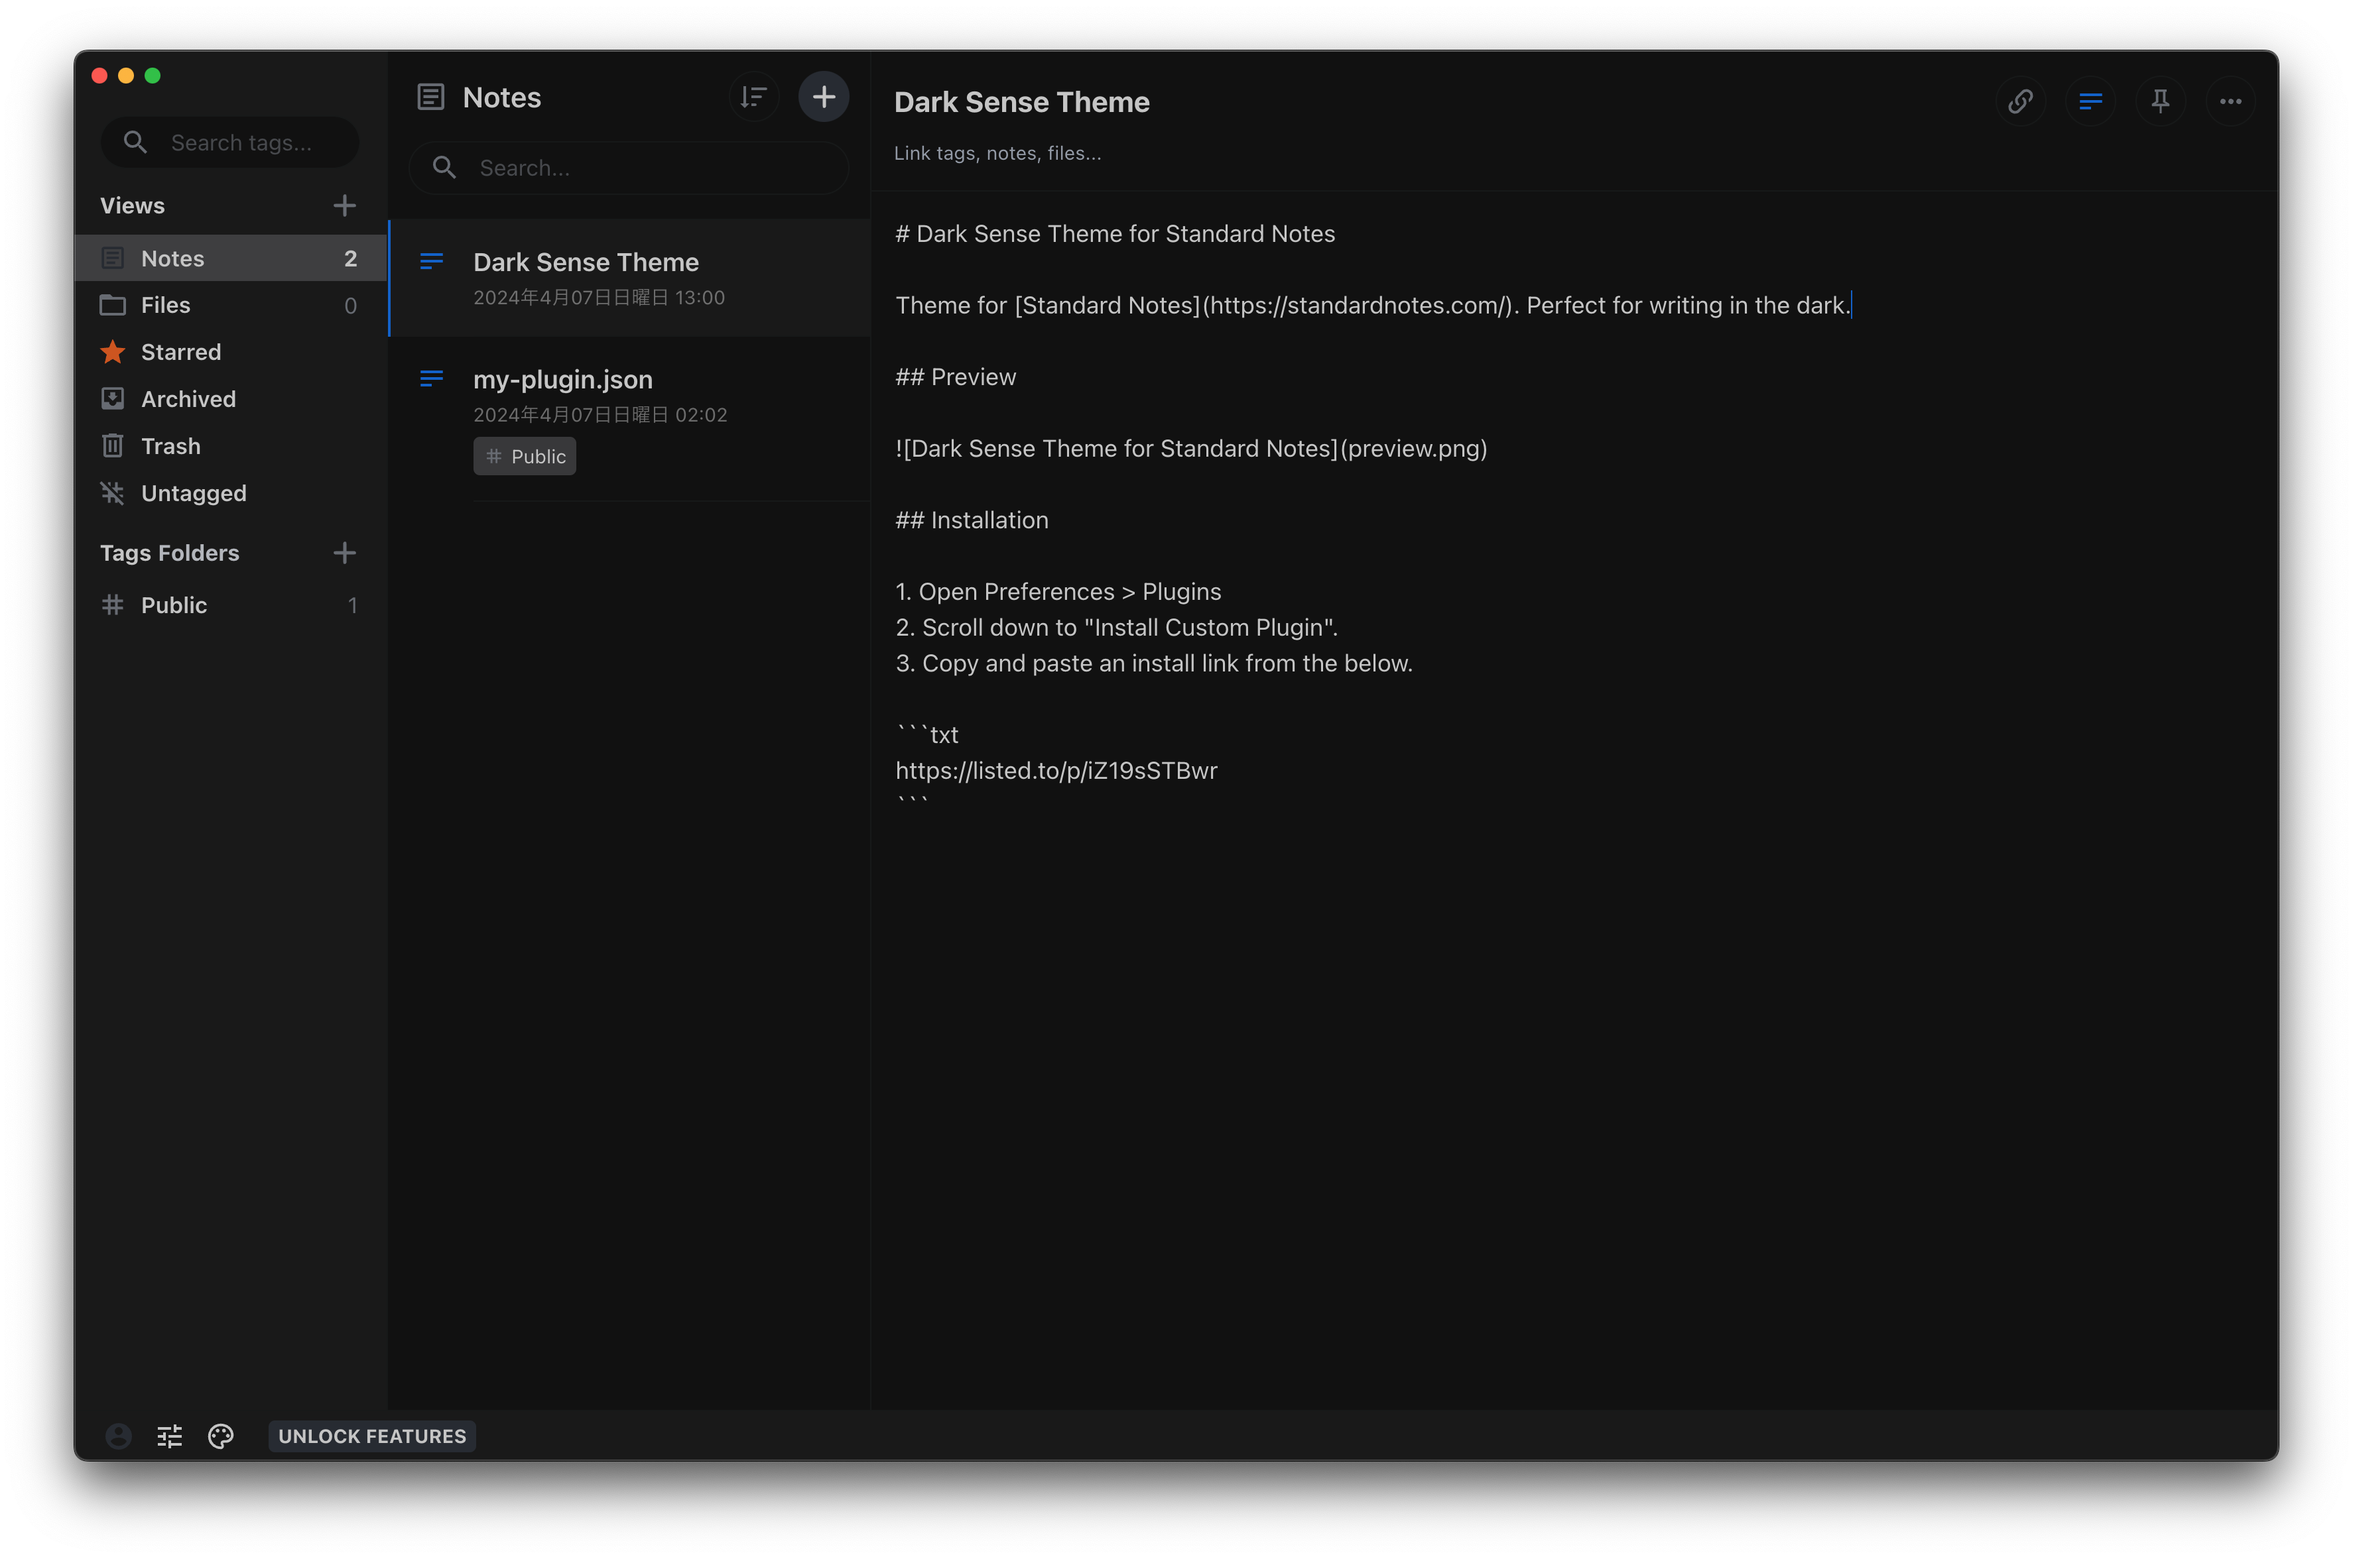
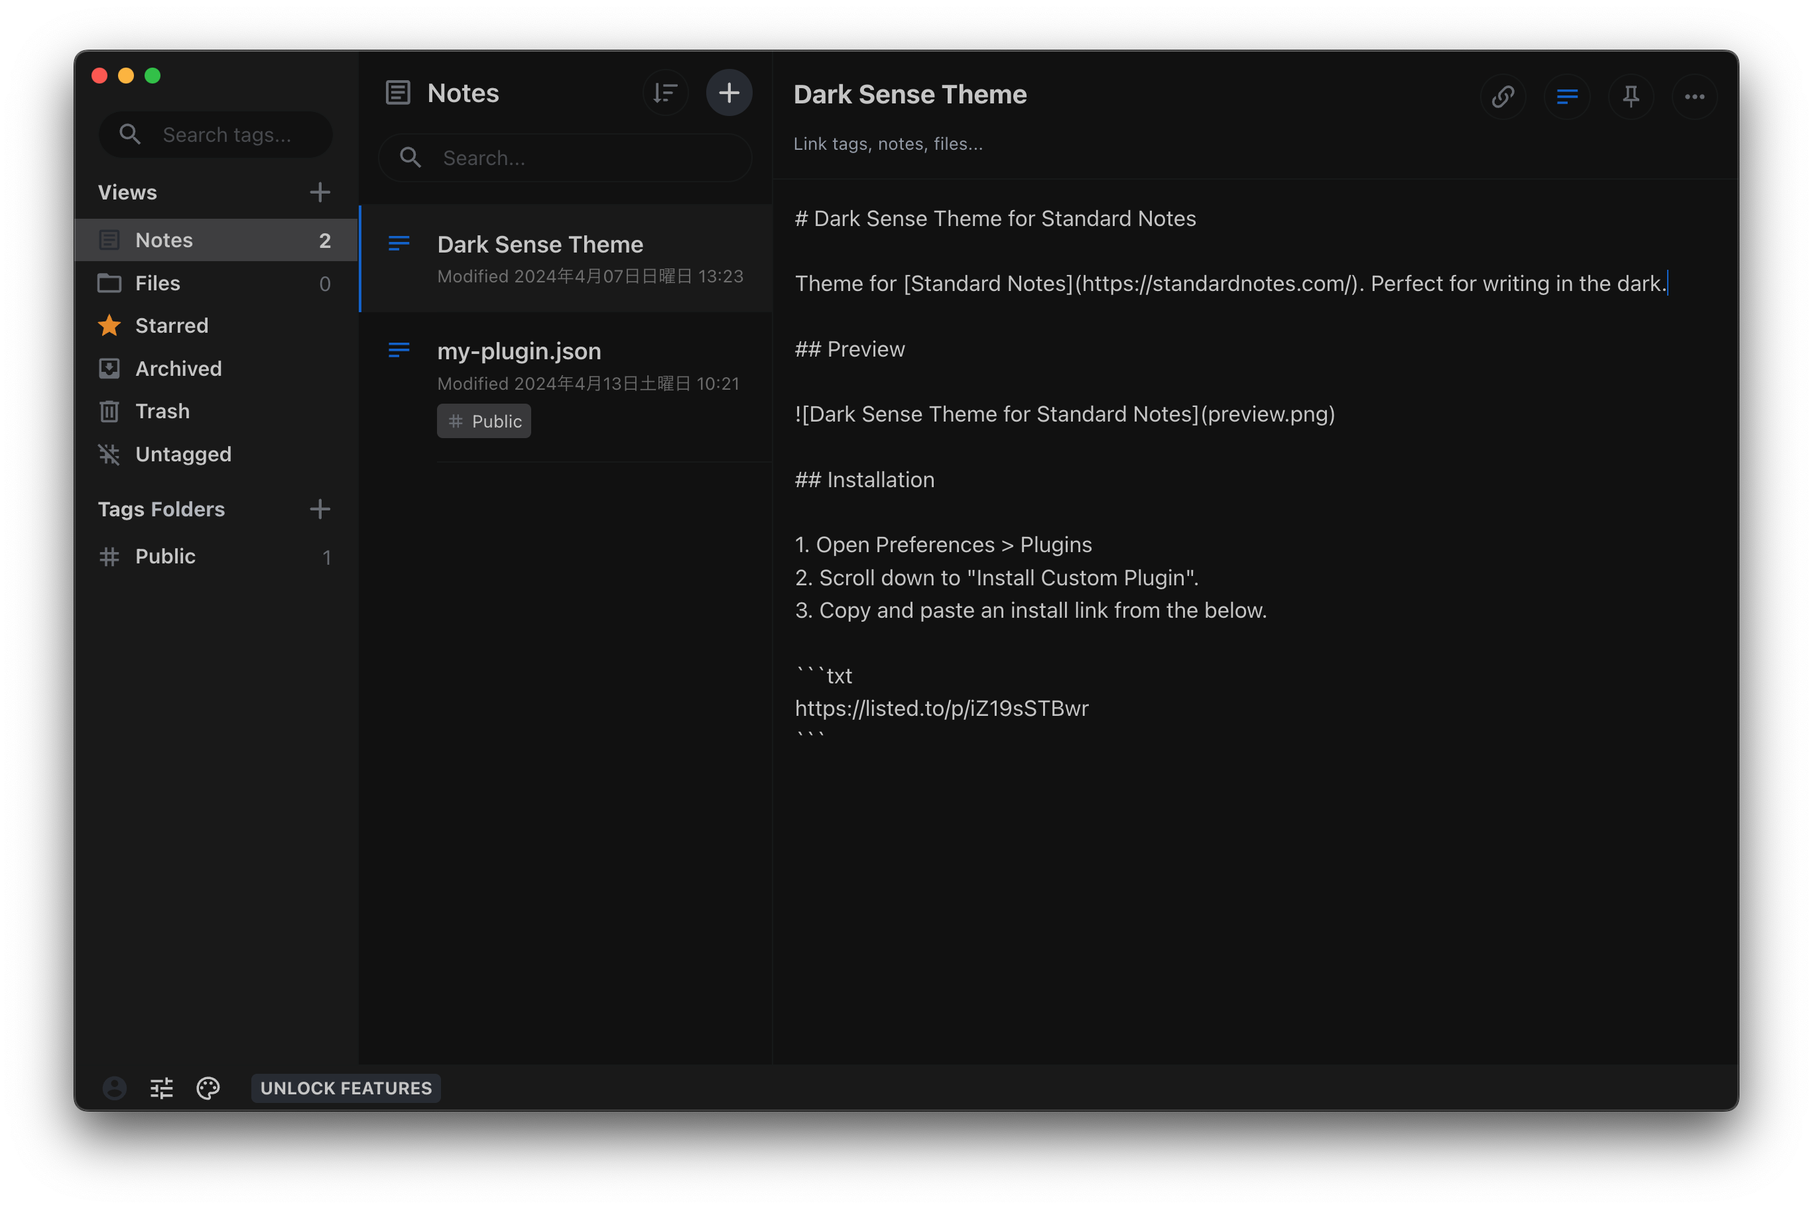
change, update: accent color

Changed region(s): [[0.0, 0.0312, 0.9949, 0.9688], [0.3731, 0.375, 0.684, 0.5312], [0.4353, 0.5625, 0.5907, 0.5938]]

diff --git a/theme.css b/theme.css
@@ -6,9 +6,9 @@
   --foreground-3: #cccccc;
   --highlight-color: #2c313a;
   --neutral-color: #72767e;
-  --danger-color: #cc241d;
-  --success-color: #458588;
-  --warning-color: #d65d0e;
+  --danger-color: #d82115;
+  --success-color: #007585;
+  --warning-color: #ea930a;
   --border-color: #181a1b;
   --navigation-item-selected-background-color: #bbbec43d;
   --sn-stylekit-passive-color-3: #515357;
